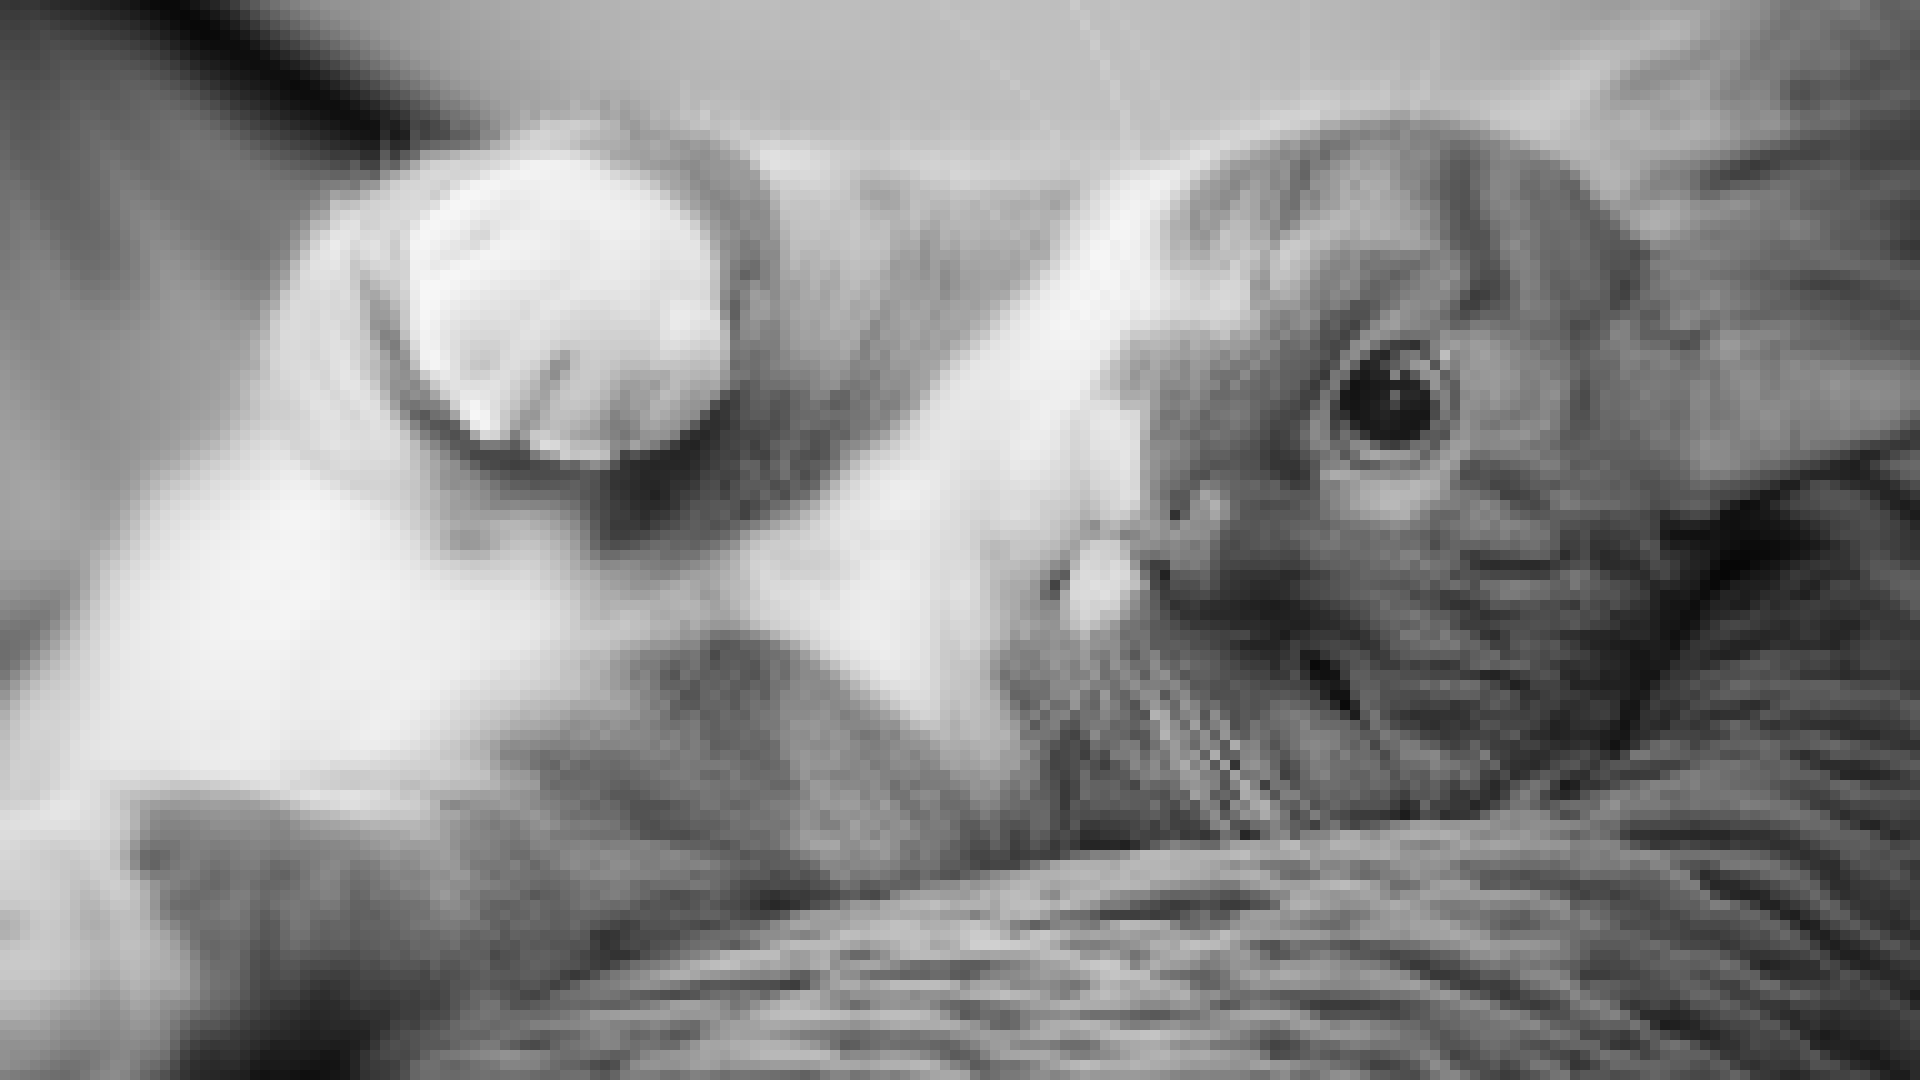
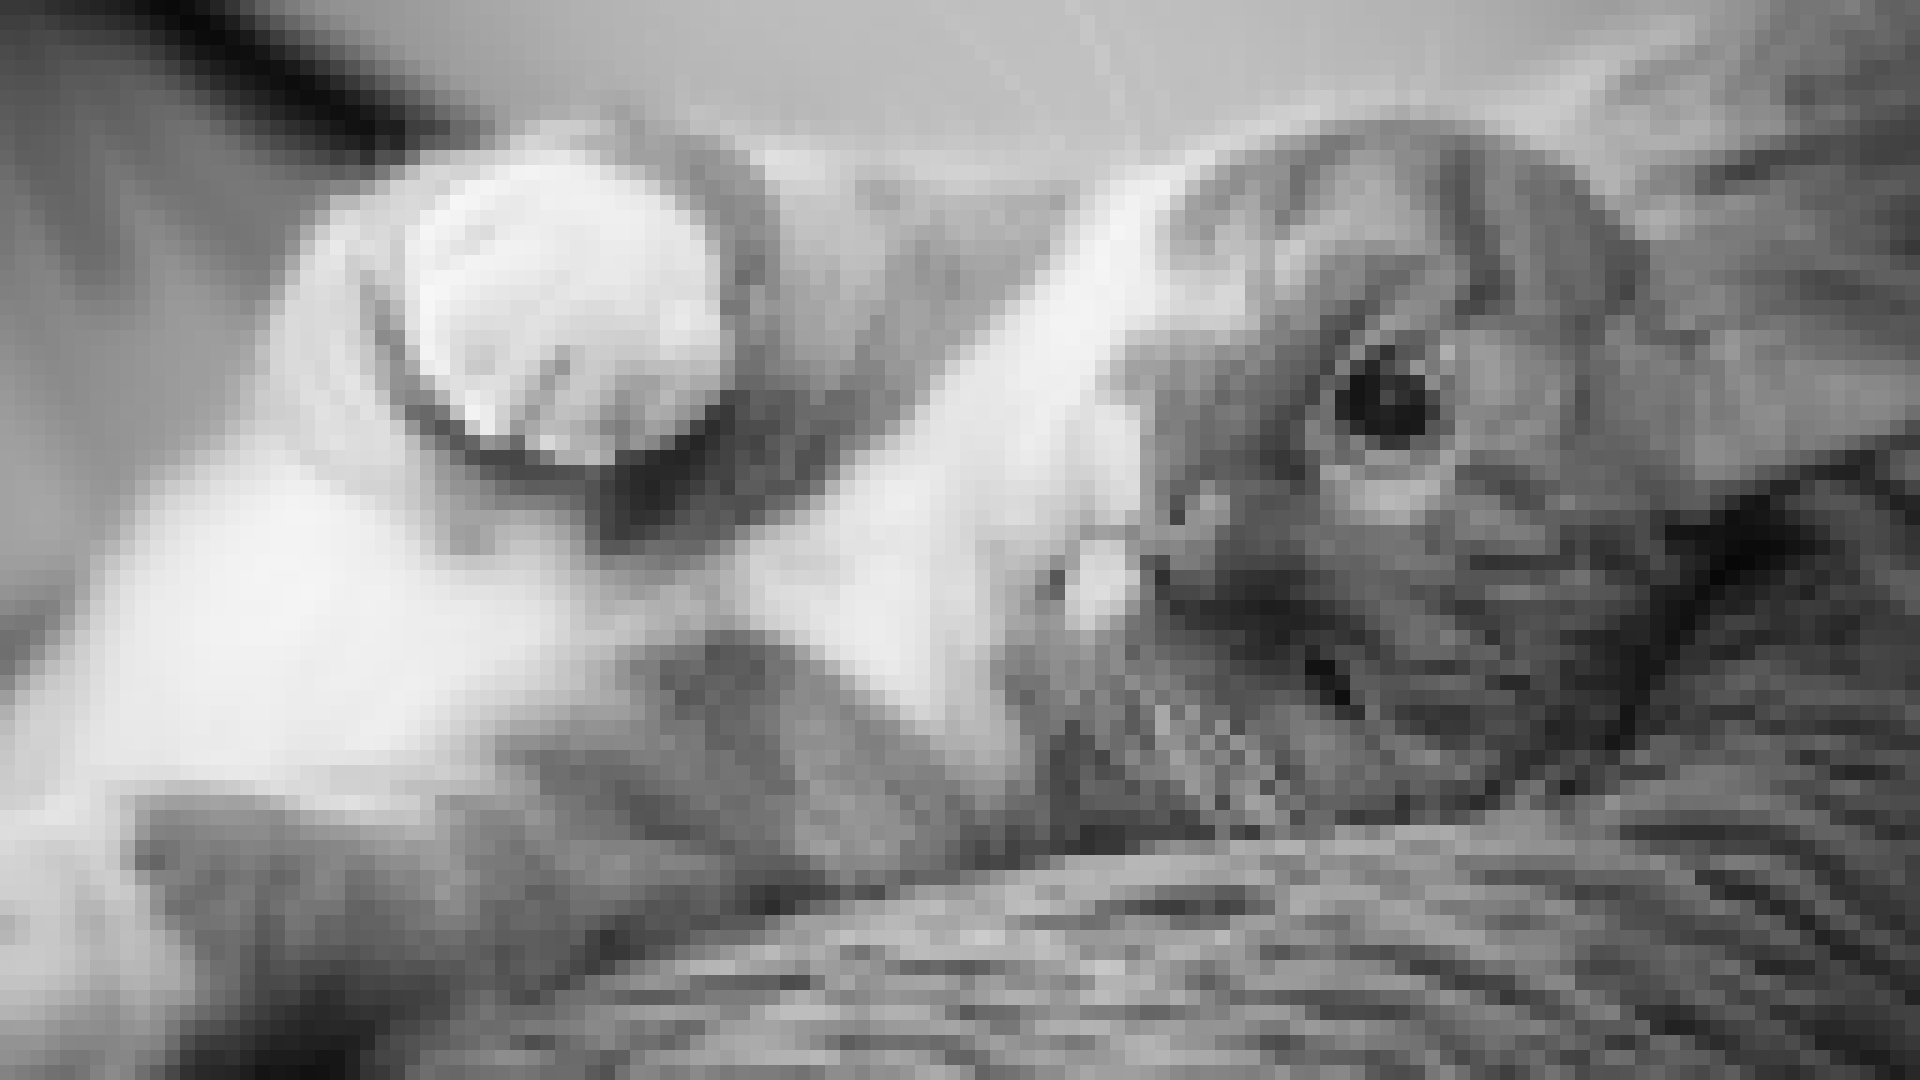
updated readme and changed output image

diff --git a/README.md b/README.md
@@ -4,7 +4,7 @@ A tiny Python tool that pixelates images using OpenCV. Select an image via a fil
 
 ## Demo
 
-Before (left): `images/cat3.jpg` — After (right): `pixelized_output.png`
+Before (top): `images/cat3.jpg` — After (bottom): `pixelized_output.png`
 
 ![Before](images/cat3.jpg) ![After](pixelized_output.png)
 
